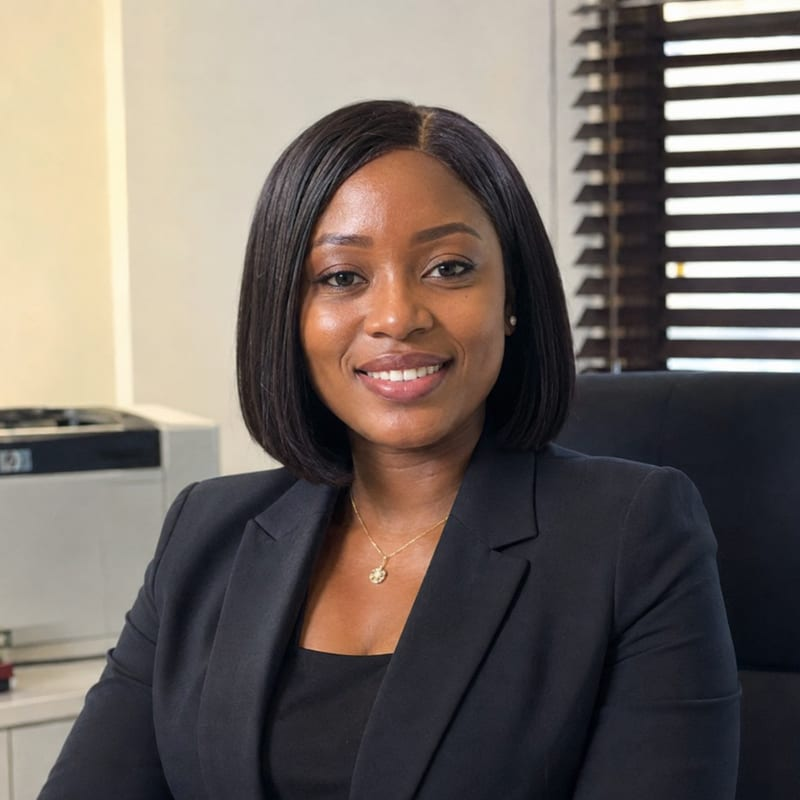
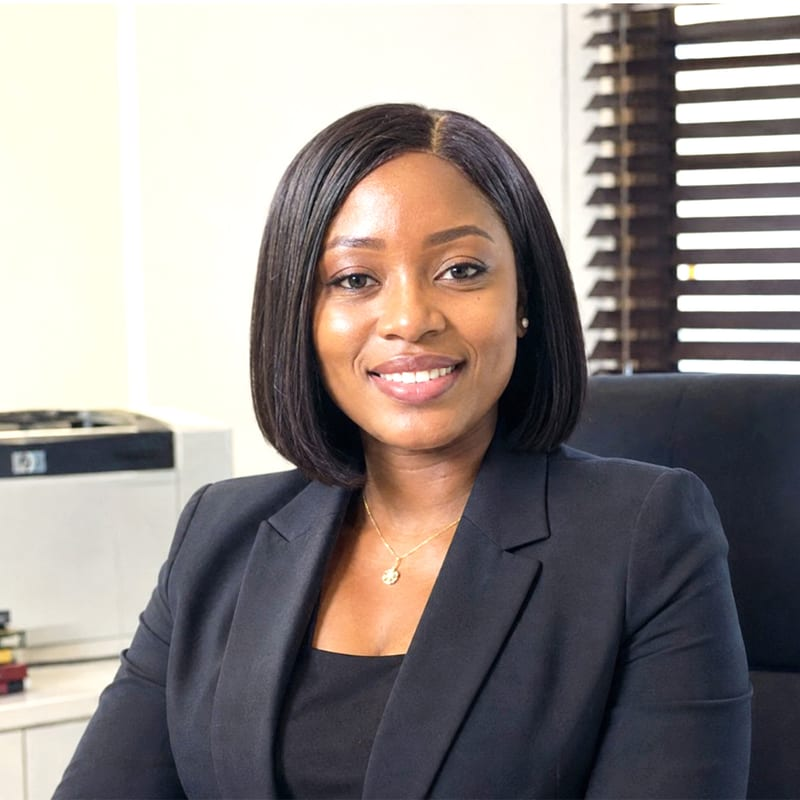
Update team photos with new images; compress and fix broken path
User replaced hr-manager, seo-specialist, team and added a new
frontend-developer image. Compressed all four (2027KB -> 271KB) and
stripped EXIF, which the originals carried.

Also fixes a path bug this surfaced: the new frontend-developer.jpg
was placed in public/images/, but the code still pointed at
/frontend-developer.jpg in the public root — so the card would have
kept rendering the old image. Updated the reference and deleted the
stale root-level file.

diff --git a/digitowebs/src/app/(public)/about/page.tsx b/digitowebs/src/app/(public)/about/page.tsx
@@ -57,7 +57,7 @@ const team = [
   {
     name: "Frontend Developer",
     role: "Development & Operations",
-    photo: "/frontend-developer.jpg",
+    photo: "/images/frontend-developer.jpg",
     color: "bg-purple-500",
   },
 ];
